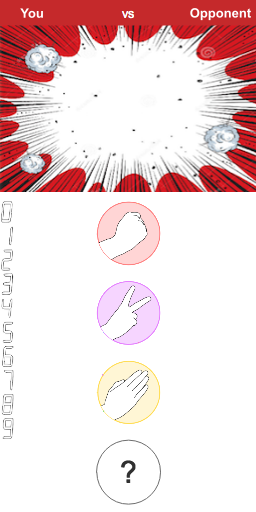
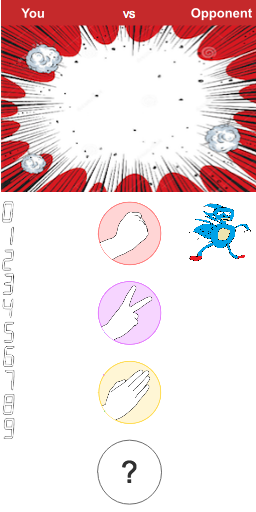
resolutions derniers bug
à résoudre :
-probleme tile bg multi
-timer multi
-image à retoucher
-sanic mal inclu

diff --git a/SE_Project/source/Game_Update.c b/SE_Project/source/Game_Update.c
@@ -23,6 +23,7 @@ void Game_Update(){
 		printMenu2();
 		break;
 	case USER_TURN:
+
 		ticks=0;
 		drawArea();
 		User_Move();
@@ -42,6 +43,7 @@ void Game_Update(){
 		if((confirmation1==1) && (confirmation2==1)) Game_Status = MULTIPLAYER_TURN;
 		break;
 	case MULTIPLAYER_TURN:
+
 		ticks=0; // >>>> On pourrait ajouter tres facilement le times_up <<<<<<
 		drawAreaMulti();
 		User_Move();
@@ -52,6 +54,7 @@ void Game_Update(){
 		}
 		break;
 	case OPPONENT_TURN:
+
 		if (game_mode == SINGLE){
 			Opponent_Move();
 			Game_Status = RESULTS;
@@ -178,18 +181,19 @@ void printUserChoice(){
 //print opponent choice
 void printOpponentChoice(){
 	int row_sel;
+	int col_sel;
 	switch(opponent_move){
-		case ROCK: {row_sel = 0; break;}
-		case SCISSORS:{row_sel = 10; break;}
-		case PAPER: {row_sel = 20; break;}
+		case ROCK: {row_sel = 0; col_sel=0; break;}
+		case SCISSORS:{row_sel = 10; col_sel=0; break;}
+		case PAPER: {row_sel = 20; col_sel=0; break;}
 		case ERROR: break;
-		case LOSE: {row_sel = 30; break;}
+		case LOSE: {row_sel = 0; col_sel=11; break;}
 	}
 	//print the corresponding bot's choice (taken from the bottom of BackgroundMulti.png)
 	int row, col;
 	for(row=0;row<9;row++){
 		for(col=0;col<10;col++){
-			bg0Map[(row+8)*32+(col+12)] = bg0Map[(row+25+row_sel)*32+col+12];
+			bg0Map[(row+8)*32+(col+12)] = bg0Map[(row+25+row_sel)*32+col+12+col_sel];
 		}
 	}
 }
@@ -201,15 +205,19 @@ void Check_Results(){
 		Win_Round();
 	}
 
-	if((user_move == ROCK && opponent_move == PAPER) ||
+	else if((user_move == ROCK && opponent_move == PAPER) ||
 			(user_move == SCISSORS && opponent_move == ROCK) ||
 			(user_move == PAPER && opponent_move == SCISSORS)){
 		Loose_Round(0);
 	}
 
-	if(user_move == opponent_move) Draw_Round();
+	else if((user_move == opponent_move) && (opponent_move == LOSE)) Game_Status=NEXT; //draw sanic?
 
-	if(user_move==LOSE) Game_Status=NEXT;
+	else if(user_move==LOSE) Game_Status=NEXT;
+
+	else if(user_move == opponent_move) Draw_Round();
+
+
 
 }
 
@@ -325,12 +333,16 @@ void drawArea(){
 	swiCopy(BackgroundPal, BG_PALETTE, BackgroundPalLen/2);
 
 	//draw the interrogation point (taken from below the the Background.png)
+
 	int row, col;
 	for(row=0;row<9;row++){
 		for(col=0;col<10;col++){
 			bg0Map[(row+8)*32+(col+12)] = bg0Map[(row+25+30)*32+col+12];
 		}
 	}
+
+
+
 	//utile pour affichage du 0-0
 	printScore(scoreHuman,12,0);
 	printScore(scoreBot,21,0);
@@ -481,6 +493,9 @@ void Full_Rock(){ // Declare tile
 	// End of Easter Egg Init all the parameters/Graphics
 	n_rock_streak = 0;
 	Init_Graphics();
+
+	drawArea();
+
 	memset(bg3Map_SUB, ARGB16(0,0,0,0),256*192*2);
 	printUserChoice();
 }

diff --git a/SE_Project/source/Init_Graphics.c b/SE_Project/source/Init_Graphics.c
@@ -27,7 +27,7 @@ void Init_Main_Graphics(void){
 void Init_Sub_Graphics(void){
 	VRAM_C_CR = VRAM_ENABLE | VRAM_C_SUB_BG; //Enable RAM memory bank for the sub engine
 
-	REG_DISPCNT_SUB = MODE_3_2D | DISPLAY_BG0_ACTIVE | DISPLAY_BG3_ACTIVE; // Sub engine in mode 0, activate BG 0
+	REG_DISPCNT_SUB = MODE_3_2D | DISPLAY_BG0_ACTIVE; // Sub engine in mode 0, activate BG 0
 
 	BGCTRL_SUB[0] = BG_MAP_BASE(15) | BG_TILE_BASE(0) | BG_32x32 | BG_COLOR_256;
 	BGCTRL_SUB[3] = BG_MAP_BASE(17) | BG_BMP16_256x256 | BG_COLOR_256;
@@ -45,7 +45,21 @@ void Init_Sub_Graphics(void){
     REG_BG3X_SUB = 0;
     REG_BG3Y_SUB = 256*36;
 
+	//swiCopy(invisibleTiles, BG_TILE_RAM_SUB(0), invisibleTilesLen/2);
+	//swiCopy(invisibleBitmap, bg3Map_SUB, invisibleBitmapLen/2);
+
+
 	swiCopy(MenuTactileTiles, BG_TILE_RAM_SUB(0), MenuTactileTilesLen/2);
 	swiCopy(MenuTactileMap, bg0Map_SUB, MenuTactileMapLen/2);
 	swiCopy(MenuTactilePal, BG_PALETTE_SUB, MenuTactilePalLen/2);
+	/*
+	int row, col;
+	for(row=0;row<256;row++)
+		for (col=0;col<256;col++){
+			bg3Map_SUB[row*256+col]=ARGB16(0,0,0,0);
+
+		}
+		*/
+
+
 }

diff --git a/SE_Project/source/Pattern_Recognition.c b/SE_Project/source/Pattern_Recognition.c
@@ -14,6 +14,8 @@
 #include "Game_Update.h"
 
 move Detect_Move(void) {
+	//------------ Activation BG3 ---------------
+	REG_DISPCNT_SUB |= DISPLAY_BG3_ACTIVE;
 	// ----------- Variable Init ----------------
 	posx = posy = posx_old = posy_old = 0;
 	dx = dy = init_dx = init_dy = n_corners = init = i = 0;
@@ -153,6 +155,7 @@ move Detect_Move(void) {
 	}
 	// Clean the background and return the figure
 	memset(bg3Map_SUB, ARGB16(0,0,0,0),256*185*2);
+	REG_DISPCNT_SUB=REG_DISPCNT_SUB &~DISPLAY_BG3_ACTIVE;
 	return drawn_figure;
 }
 

diff --git a/SE_Project/source/Init_Graphics.h b/SE_Project/source/Init_Graphics.h
@@ -17,6 +17,8 @@
 #include "pause.h"
 #include "lobby.h"
 #include "lobbyMain.h"
+#include "invisible.h"
+
 
 void Init_Graphics();
 void Init_Main_Graphics();
